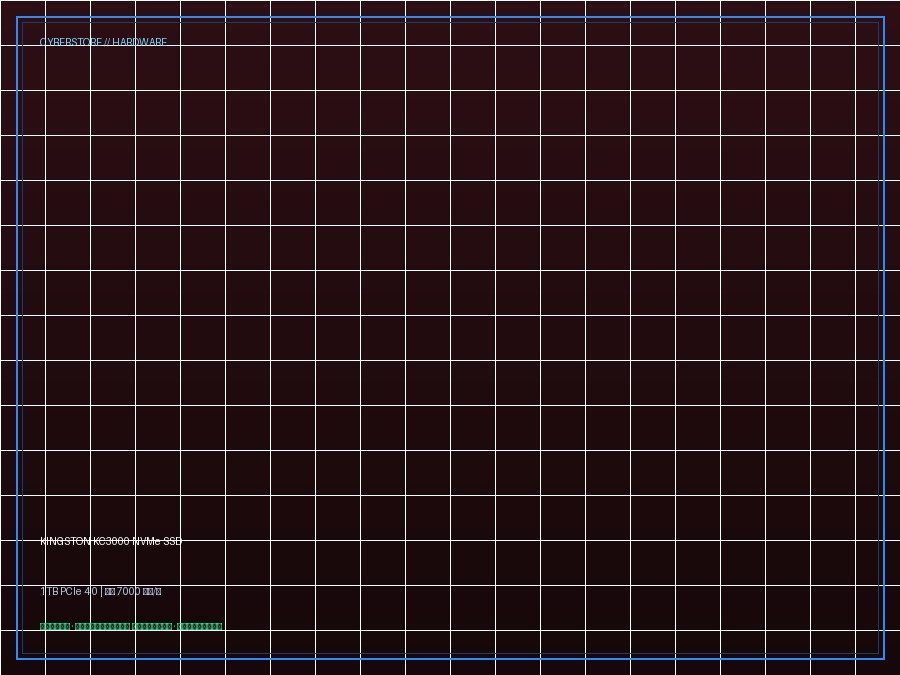
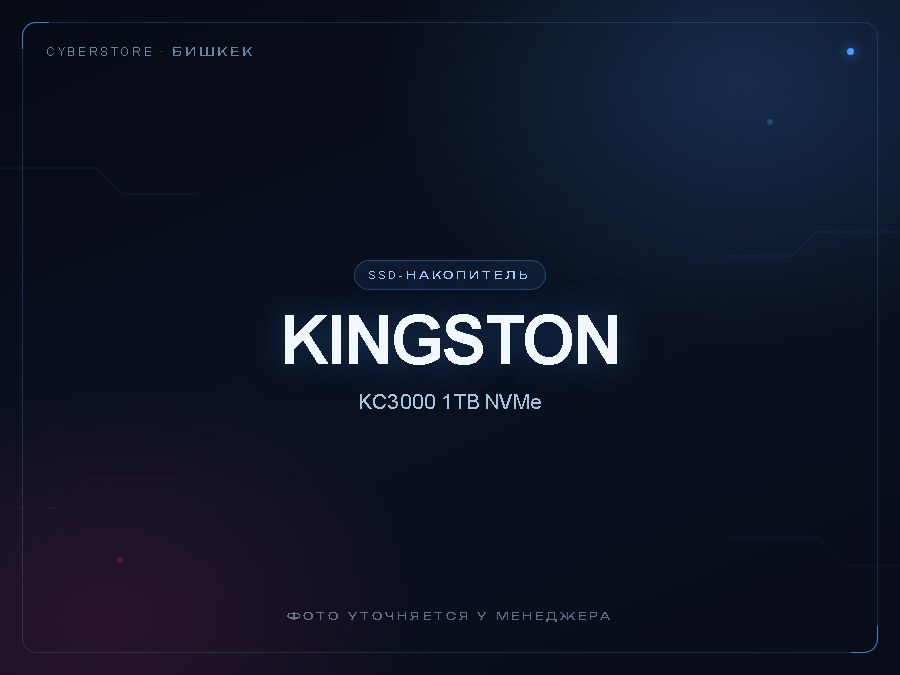
fix: resolve 9 QA bugs (privacy overflow, delivery texts, meta tags, 2GIS link, specs, placeholders, performance)
Privacy h1 overflowed on 320–484px, delivery page contradicted itself about
free shipping, product/category meta descriptions were ungrammatical or
tautological, an empty search offered a pointless "notify me", the 2GIS button
opened the city instead of the shop's address, two laptops showed a redundant
"2K" row next to their real resolution, and eight products still used blueprint
placeholder grids. Each fix is narrow and keeps the existing data and filters
intact; the new migration only touches rows still holding the old values.
Mobile paint also stops animating masked hero layers and blurring the header,
and the hero texture is preloaded.

🤖 Generated with Codebuff

diff --git a/static/css/cyberpunk.css b/static/css/cyberpunk.css
@@ -854,3 +854,124 @@ body > .messages {
 @media (min-width: 1181px) and (max-width: 1400px) {
   .hero-hud-ring { right: -12px; width: 360px; height: 360px; }
 }
+
+/* --------------------------------------------------------------------------
+   FILTERS: neon scrollbar
+   Gradient thumb in the accent colours, glow on hover, and a slow sheen only
+   while the panel is hovered, so an idle page animates nothing.
+   -------------------------------------------------------------------------- */
+/* Firefox has no scrollbar pseudo-elements: standard properties only there.
+   Chromium ignores ::-webkit-scrollbar once the standard ones are set, so the
+   two groups must stay apart. */
+@supports not (selector(::-webkit-scrollbar)) {
+  .filters,
+  .filter-checkbox-list {
+    scrollbar-width: thin;
+    scrollbar-color: var(--neon-blue) rgba(77, 157, 255, .07);
+  }
+}
+
+.filters::-webkit-scrollbar,
+.filter-checkbox-list::-webkit-scrollbar { width: 10px; }
+.filter-checkbox-list::-webkit-scrollbar { width: 8px; }
+.filters::-webkit-scrollbar-button,
+.filter-checkbox-list::-webkit-scrollbar-button { display: none; width: 0; height: 0; }
+
+.filters::-webkit-scrollbar-track,
+.filter-checkbox-list::-webkit-scrollbar-track {
+  background: rgba(77, 157, 255, .07);
+  border-radius: var(--radius-full);
+}
+.filters::-webkit-scrollbar-track { margin: 12px 0; }
+
+.filters::-webkit-scrollbar-thumb,
+.filter-checkbox-list::-webkit-scrollbar-thumb {
+  border-radius: var(--radius-full);
+  border: 1px solid rgba(4, 6, 11, .55);
+  background-image: linear-gradient(180deg, var(--neon-blue) 0%, #7c6bff 52%, var(--neon-pink) 100%);
+  background-size: 100% 220%;
+  background-position: 50% 0%;
+  box-shadow: 0 0 10px rgba(77, 157, 255, .28);
+  transition: box-shadow var(--motion-base) var(--ease-out);
+}
+.filters::-webkit-scrollbar-thumb:hover,
+.filter-checkbox-list::-webkit-scrollbar-thumb:hover {
+  box-shadow: 0 0 16px rgba(77, 157, 255, .55), 0 0 7px rgba(255, 46, 136, .32);
+}
+
+/* --------------------------------------------------------------------------
+   HERO HUD: orbiting sparks
+   Two comet arcs run along the rings, each with a glowing head, so the circle
+   never sits still. Only transforms move (no layout, no paint per frame), and
+   both stop for prefers-reduced-motion.
+   -------------------------------------------------------------------------- */
+.hero-hud-ring > .hud-orbit {
+  position: absolute; inset: 0; border-radius: 50%;
+  pointer-events: none;
+  will-change: transform;
+  animation: hud-orbit-a 13s linear infinite;
+}
+.hero-hud-ring > .hud-orbit::before {
+  content: ""; position: absolute; inset: 0; border-radius: 50%;
+  background: conic-gradient(from 0deg,
+    rgba(77, 157, 255, 0) 0deg,
+    rgba(77, 157, 255, .45) 336deg,
+    rgba(214, 236, 255, .95) 357deg,
+    rgba(77, 157, 255, 0) 360deg);
+  -webkit-mask-image: radial-gradient(closest-side, transparent calc(100% - 17px), #000 calc(100% - 2px), transparent 100%);
+  mask-image: radial-gradient(closest-side, transparent calc(100% - 17px), #000 calc(100% - 2px), transparent 100%);
+}
+.hero-hud-ring > .hud-orbit::after {
+  content: ""; position: absolute; top: -3px; left: 50%;
+  width: 6px; height: 6px; margin-left: -3px; border-radius: 50%;
+  background: #d9ecff;
+  box-shadow:
+    0 0 8px 2px rgba(77, 157, 255, .9),
+    0 0 20px 5px rgba(77, 157, 255, .35);
+}
+
+.hero-hud-ring > .hud-orbit-b {
+  inset: 42px;
+  animation-name: hud-orbit-b;
+  animation-duration: 9s;
+}
+.hero-hud-ring > .hud-orbit-b::before {
+  background: conic-gradient(from 120deg,
+    rgba(255, 46, 136, 0) 0deg,
+    rgba(255, 46, 136, .42) 336deg,
+    rgba(255, 214, 231, .95) 357deg,
+    rgba(255, 46, 136, 0) 360deg);
+  -webkit-mask-image: radial-gradient(closest-side, transparent calc(100% - 13px), #000 calc(100% - 2px), transparent 100%);
+  mask-image: radial-gradient(closest-side, transparent calc(100% - 13px), #000 calc(100% - 2px), transparent 100%);
+}
+.hero-hud-ring > .hud-orbit-b::after {
+  width: 5px; height: 5px; margin-left: -2.5px; top: -2.5px;
+  background: #ffdcea;
+  box-shadow:
+    0 0 8px 2px rgba(255, 46, 136, .85),
+    0 0 18px 4px rgba(255, 46, 136, .32);
+}
+
+@keyframes hud-orbit-a { to { transform: rotate(360deg); } }
+@keyframes hud-orbit-b { to { transform: rotate(-360deg); } }
+
+@media (prefers-reduced-motion: reduce) {
+  .hero-hud-ring > .hud-orbit { animation: none; }
+  .hero-hud-ring > .hud-orbit-b,
+  .hero-hud-ring > .hud-orbit-b::before,
+  .hero-hud-ring > .hud-orbit-b::after { display: none; }
+}
+
+/* --------------------------------------------------------------------------
+   MOBILE PERFORMANCE BUDGET
+   Decorative motion and backdrop blurs cost more than they give on phones:
+   they keep repainting the hero and force full-screen compositing on scroll.
+   -------------------------------------------------------------------------- */
+@media (max-width: 700px) {
+  .site-header, .hud-panel, .badge { backdrop-filter: none; }
+  .site-header { background: rgba(5, 8, 15, .96); }
+  .hero-home::before, .hero-home::after,
+  .hero-hud-ring::before, .hero-hud-ring::after { animation: none; }
+  /* Entrance keeps its motion but stops holding the hero invisible for ~1s. */
+  .hero-copy > *, .hero-hud { animation-duration: 260ms; animation-delay: 0ms; }
+}

diff --git a/templates/catalog/list.html b/templates/catalog/list.html
@@ -1,7 +1,7 @@
 {% extends "base.html" %}
 {% load shop_tags %}
 {% block title %}{% if category %}{{ category.name }} — {{ site.shop_name }}{% elif query %}Поиск: {{ query }} — {{ site.shop_name }}{% else %}Все товары — {{ site.shop_name }}{% endif %}{% endblock %}
-{% block description %}{% if category %}{{ category.name }} в {{ site.shop_name }}{% if category.description %}: {{ category.description }}{% else %} — товары в наличии, цены и рассрочка в {{ site.city }}{% endif %}.{% elif query %}Результаты поиска по запросу «{{ query }}» в {{ site.shop_name }}: цены, наличие и рассрочка в {{ site.city }}.{% else %}Все товары {{ site.shop_name }}: ноутбуки, готовые ПК и комплектующие. Цены, наличие, рассрочка и доставка по Кыргызстану.{% endif %}{% endblock %}
+{% block description %}{% if category %}{% if category.description %}{{ site.shop_name }}: {{ category.description }}{% else %}{{ category.name }} — товары в наличии, цены и рассрочка, {{ site.city }}{% endif %}.{% elif query %}Результаты поиска по запросу «{{ query }}» в {{ site.shop_name }}: цены, наличие и рассрочка в {{ site.city }}.{% else %}Все товары {{ site.shop_name }}: ноутбуки, готовые ПК и комплектующие. Цены, наличие, рассрочка и доставка по Кыргызстану.{% endif %}{% endblock %}
 {% block og_title %}{% if category %}{{ category.name }} — {{ site.shop_name }}{% elif query %}Поиск: {{ query }} — {{ site.shop_name }}{% else %}Все товары — {{ site.shop_name }}{% endif %}{% endblock %}
 {% block og_description %}{{ block.super }}{% endblock %}
 {% block robots %}{% if query %}noindex, follow{% else %}index, follow{% endif %}{% endblock %}
@@ -27,7 +27,7 @@
       <h1>{% if category %}{{ category.name }}{% elif query %}Поиск: «{{ query }}»{% else %}{{ site.catalog_title }}{% endif %}</h1>
       <p class="muted">
         {% if category and category.description %}{{ category.description }}
-        {% elif query %}Найдено по запросу с учётом фильтров.
+        {% elif query %}{% if page.paginator.count %}Найдено по запросу{% if has_filters %} с учётом фильтров{% endif %}.{% else %}По запросу «{{ query }}» ничего не найдено. Проверьте написание или напишите нам — подберём вручную.{% endif %}
         {% else %}Выберите раздел или воспользуйтесь поиском и фильтрами.{% endif %}
       </p>
     </div>
@@ -194,17 +194,21 @@
           <div class="empty">
             <div class="empty-icon"><svg class="ic ic-xl" aria-hidden="true"><use href="#i-search"/></svg></div>
             <h3>{% if has_filters %}Ничего не найдено{% else %}Пока нет товаров{% endif %}</h3>
-            <p>{% if has_filters %}Попробуйте изменить параметры или сбросить фильтры.{% else %}В этом разделе товары появятся позже.{% endif %}</p>
-            {% if has_filters %}
+            <p>{% if query %}Попробуйте изменить запрос или откройте каталог — в нём есть все разделы.{% elif has_filters %}Попробуйте изменить параметры или сбросить фильтры.{% else %}В этом разделе товары появятся позже.{% endif %}</p>
+            {% if query %}
+              <a class="btn btn-primary" href="{% url 'catalog:list' %}">Открыть каталог</a>
+            {% elif has_filters %}
               <a class="btn btn-primary" href="{{ request.path }}">Очистить фильтры</a>
             {% endif %}
             <a class="btn btn-wa" href="{% whatsapp_generic 'Здравствуйте! Помогите подобрать технику.' %}" target="_blank" rel="noopener">
               <svg><use href="#i-wa"/></svg>
               Спросить в WhatsApp
             </a>
+            {% if not query %}
             <a class="btn" href="{% whatsapp_generic 'Здравствуйте! Сообщите, пожалуйста, когда появится товар в этом разделе.' %}" target="_blank" rel="noopener">
               Сообщить о поступлении
             </a>
+            {% endif %}
           </div>
         {% endif %}
       </section>

diff --git a/templates/core/delivery.html b/templates/core/delivery.html
@@ -19,7 +19,7 @@
       <div class="delivery-card">
         <div class="delivery-card-icon"><svg class="ic ic-lg" aria-hidden="true"><use href="#i-store"/></svg></div>
         <span class="plan-pill">Самовывоз</span>
-        <h2>Из магазина в {{ site.city }}</h2>
+        <h2>Забрать в магазине</h2>
         <ul class="plan-features">
           <li>Адрес: <strong>{{ site.city }}, ул. {{ site.address }}</strong>{% if site.address_note %} ({{ site.address_note }}){% endif %}</li>
           <li>График: <strong>{{ site.work_days }}, {{ site.hours_without_days }}</strong></li>
@@ -37,7 +37,7 @@
       </div>
       <ol class="flow-steps-grid">
         <li class="flow-step"><span class="flow-step-num">01</span><h3>Заявка</h3><p>Пишете в WhatsApp: товар и адрес. Менеджер подтверждает наличие.</p></li>
-        <li class="flow-step"><span class="flow-step-num">02</span><h3>Согласование</h3><p>Считаем стоимость доставки и называем точное время.</p></li>
+        <li class="flow-step"><span class="flow-step-num">02</span><h3>Согласование</h3><p>Подтверждаем адрес и называем точное время доставки.</p></li>
         <li class="flow-step"><span class="flow-step-num">03</span><h3>Отправка</h3><p>Упаковываем технику и передаём курьеру или в транспортную службу.</p></li>
         <li class="flow-step"><span class="flow-step-num">04</span><h3>Получение</h3><p>Проверяете комплект при получении и подписываете документы.</p></li>
       </ol>
@@ -52,7 +52,7 @@
       <div class="zone-card">
         <span class="plan-pill">Кыргызстан</span>
         <h3>По регионам</h3>
-        <p>Отправка транспортными службами. Срок и стоимость зависят от города — уточняет менеджер.</p>
+        <p>Отправка транспортными службами. Срок зависит от города — точное время уточняет менеджер.</p>
       </div>
       <div class="zone-card">
         <span class="plan-pill">Проверка</span>

diff --git a/static/css/style.css b/static/css/style.css
@@ -629,6 +629,9 @@ a.chip-m:hover { border-color: var(--gesso-primary); color: var(--gesso-accent-t
   gap: var(--gesso-space-4); margin-bottom: var(--gesso-space-8); flex-wrap: wrap;
 }
 .section-head h2 { margin: 0; }
+/* A long single word in an H1 (e.g. «конфиденциальности») must wrap instead of
+   stretching the flex item past the viewport on narrow phones. */
+.section-head > div { min-width: 0; }
 .section-link {
   font-size: var(--gesso-text-sm); font-weight: 500;
   color: var(--gesso-accent-text);
@@ -1194,7 +1197,8 @@ a.chip-m:hover { border-color: var(--gesso-primary); color: var(--gesso-accent-t
    INFO PAGES: installment / delivery
    ========================================================================== */
 
-.info-page { padding: var(--section-padding) 0 var(--gesso-space-24); }
+.info-page { padding: calc(var(--section-padding) / 3) 0 var(--gesso-space-24); }
+.info-page .crumbs { padding: var(--gesso-space-2) 0 var(--gesso-space-3); }
 
 .contacts-head { text-align: center; margin-bottom: var(--gesso-space-12); }
 .contacts-head h1 {
@@ -1318,7 +1322,8 @@ a.chip-m:hover { border-color: var(--gesso-primary); color: var(--gesso-accent-t
    CONTACTS
    ========================================================================== */
 
-.contacts-page { padding: var(--section-padding) 0 var(--gesso-space-24); }
+.contacts-page { padding: calc(var(--section-padding) / 3) 0 var(--gesso-space-24); }
+.contacts-page .crumbs { padding: var(--gesso-space-2) 0 var(--gesso-space-3); }
 
 .contacts-layout {
   display: grid; grid-template-columns: minmax(340px, 420px) 1fr;

diff --git a/templates/core/home.html b/templates/core/home.html
@@ -4,6 +4,8 @@
 {% block description %}{{ site.shop_name }} в {{ site.city }}: ноутбуки, готовые игровые ПК и комплектующие. Цены, рассрочка 18+, доставка по Кыргызстану, WhatsApp {{ site.phone }}.{% endblock %}
 {% block og_title %}{{ site.shop_name }} — ноутбуки и ПК в {{ site.city }}{% endblock %}
 {% block og_description %}Каталог ноутбуков, готовых ПК и комплектующих {{ site.shop_name }}. Рассрочка, доставка по КР, адрес: {{ site.city }}, {{ site.address }}.{% endblock %}
+{# LCP: the hero veil paints with this texture, so fetch it with the stylesheets. #}
+{% block head_extra %}<link rel="preload" href="{% static 'img/circuit.png' %}" as="image">{% endblock %}
 {% block content %}
 <!-- Hero Section -->
 <section class="hero-home">
@@ -40,7 +42,10 @@
 
    <!-- HUD: the avatar's ring and labels, made informative -->
    <aside class="hero-hud" aria-label="Коротко о магазине">
-     <span class="hero-hud-ring" aria-hidden="true"></span>
+     <span class="hero-hud-ring" aria-hidden="true">
+       <span class="hud-orbit hud-orbit-a"></span>
+       <span class="hud-orbit hud-orbit-b"></span>
+     </span>
      <div class="hud-panel">
        <div class="hud-head">
          <span>CyberStore · {{ site.city }}</span>

diff --git a/templates/catalog/detail.html b/templates/catalog/detail.html
@@ -1,7 +1,7 @@
 {% extends "base.html" %}
 {% load shop_tags %}
 {% block title %}{{ product.title|truncatechars:62 }} — {{ site.shop_name }}{% endblock %}
-{% block description %}{{ product.title }}{% if product.price %} за {{ product.price|price }}{% endif %}. {{ product.short_description|truncatechars:110 }} Купить в {{ site.city }}, рассрочка и доставка по КР.{% endblock %}
+{% block description %}{{ product.title }}{% if product.price %} за {{ product.price|price }}{% endif %}. {{ product.short_description|truncatechars:110 }}. Купить в {{ site.city_prepositional }}: рассрочка и доставка по КР.{% endblock %}
 {% block og_title %}{{ product.title }}{% endblock %}
 {% block og_description %}{{ product.title }}{% if product.price %} — {{ product.price|price }}{% endif %}. {{ product.short_description|truncatechars:140 }}{% endblock %}
 {% block head_extra %}

diff --git a/templates/core/installment.html b/templates/core/installment.html
@@ -25,7 +25,7 @@
         </div>
         <h2>{{ o.title }}</h2>
         {% if o.description %}<p class="plan-lead">{{ o.description|linebreaksbr }}</p>{% endif %}
-        <a class="btn {% if forloop.first %}btn-primary{% else %}btn-outline{% endif %} btn-block" href="{% whatsapp_generic 'Здравствуйте! Хочу уточнить условия рассрочки.' %}" target="_blank" rel="noopener">
+        <a class="btn {% if forloop.first %}btn-primary{% else %}btn-outline{% endif %} btn-block" href="{% whatsapp_generic 'Здравствуйте! Хочу уточнить условия рассрочки — «'|add:o.title|add:'».' %}" target="_blank" rel="noopener">
           <svg><use href="#i-wa"/></svg>
           Уточнить в WhatsApp
         </a>

diff --git a/apps/core/migrations/0007_fix_2gis_link_and_screen_specs.py b/apps/core/migrations/0007_fix_2gis_link_and_screen_specs.py
@@ -1,0 +1,51 @@
+"""Ship two content fixes that live in the database.
+
+* The «2GIS» button pointed at the city root instead of the shop's address.
+* Two laptops listed «Разрешение экрана: 2K», which contradicted their own
+  screen specification (QHD+ 2560x1600 and QHD 2560x1440). The value now holds
+  the exact pixel resolution; the «2K» facet option keeps working for filtering.
+
+Both updates are narrow and idempotent: they only touch rows that still hold
+the old value, so a database where the manager has already edited them stays
+untouched.
+"""
+from django.db import migrations
+
+OLD_GIS = "https://2gis.kg/bishkek"
+NEW_GIS = "https://2gis.kg/bishkek/search/%D0%90%D0%B9%D0%BD%D0%B8%2031"
+
+RESOLUTIONS = {
+    "dell-alienware-m16-moshchnyy-igrovoy-noutbuk": "2560x1600",
+    "hp-omen-16-moshchnyy-igrovoy-noutbuk-premium-klassa": "2560x1440",
+}
+
+
+def forwards(apps, schema_editor):
+    SiteSettings = apps.get_model("core", "SiteSettings")
+    SiteSettings.objects.filter(gis_url=OLD_GIS).update(gis_url=NEW_GIS)
+
+    ProductSpec = apps.get_model("catalog", "ProductSpec")
+    for slug, resolution in RESOLUTIONS.items():
+        ProductSpec.objects.filter(
+            product__slug=slug, spec_type__name="Разрешение экрана", value="2K"
+        ).update(value=resolution)
+
+
+def backwards(apps, schema_editor):
+    SiteSettings = apps.get_model("core", "SiteSettings")
+    SiteSettings.objects.filter(gis_url=NEW_GIS).update(gis_url=OLD_GIS)
+
+    ProductSpec = apps.get_model("catalog", "ProductSpec")
+    for slug, resolution in RESOLUTIONS.items():
+        ProductSpec.objects.filter(
+            product__slug=slug, spec_type__name="Разрешение экрана", value=resolution
+        ).update(value="2K")
+
+
+class Migration(migrations.Migration):
+    dependencies = [
+        ("core", "0006_sitesettings_catalog_title_sitesettings_usd_rate_and_more"),
+        ("catalog", "0013_assign_products_to_sections_and_typography"),
+    ]
+
+    operations = [migrations.RunPython(forwards, backwards)]

diff --git a/apps/catalog/views.py b/apps/catalog/views.py
@@ -625,6 +625,30 @@ def category_index(request):
     )
 
 
+def _visible_specs(specs):
+    """Drop a spec row whose value is already spelled out inside a richer row.
+
+    Products carry both a detailed row («Экран: 16″ QHD+ (2560x1600) 165Hz IPS»)
+    and a short facet row («Разрешение экрана: 2560x1600») used by the catalog
+    filters. The short one is redundant on the product page, so it is hidden
+    there while staying available for filtering.
+    """
+    # A two-row table (e.g. a CPU: model + core count) reads better complete.
+    if len(specs) <= 3:
+        return specs
+    values = [(spec.value or "").strip().lower() for spec in specs]
+    visible = []
+    for index, spec in enumerate(specs):
+        value = values[index]
+        redundant = bool(value) and any(
+            other != index and values[other] and value != values[other] and value in values[other]
+            for other in range(len(values))
+        )
+        if not redundant:
+            visible.append(spec)
+    return visible
+
+
 def product_detail(request, slug):
     product = get_object_or_404(Product.objects.published().with_cards(), slug=slug)
     related = (
@@ -638,7 +662,7 @@ def product_detail(request, slug):
         {
             "product": product,
             "images": list(product.images.all()),
-            "specs": list(product.specs.all()),
+            "specs": _visible_specs(list(product.specs.select_related("spec_type"))),
             "use_cases": list(product.use_cases.all()),
             "related": related,
             "lead_state": lead_state,

diff --git a/apps/core/models.py b/apps/core/models.py
@@ -128,6 +128,23 @@ class SiteSettings(models.Model):
         return f"{self.address}, {self.city}"
 
     @property
+    def city_prepositional(self):
+        """Город в предложном падеже — для фраз вида «Купить в Бишкеке»."""
+        known = {
+            "бишкек": "Бишкеке",
+            "ош": "Оше",
+            "джалал-абад": "Джалал-Абаде",
+            "каракол": "Караколе",
+            "нарын": "Нарыне",
+            "талас": "Таласе",
+            "баткен": "Баткене",
+            "токмок": "Токмоке",
+            "кара-балта": "Кара-Балте",
+        }
+        city = (self.city or "").strip()
+        return known.get(city.lower(), city)
+
+    @property
     def hours_without_days(self):
         """Часы работы без уже показанных дней недели.
 
